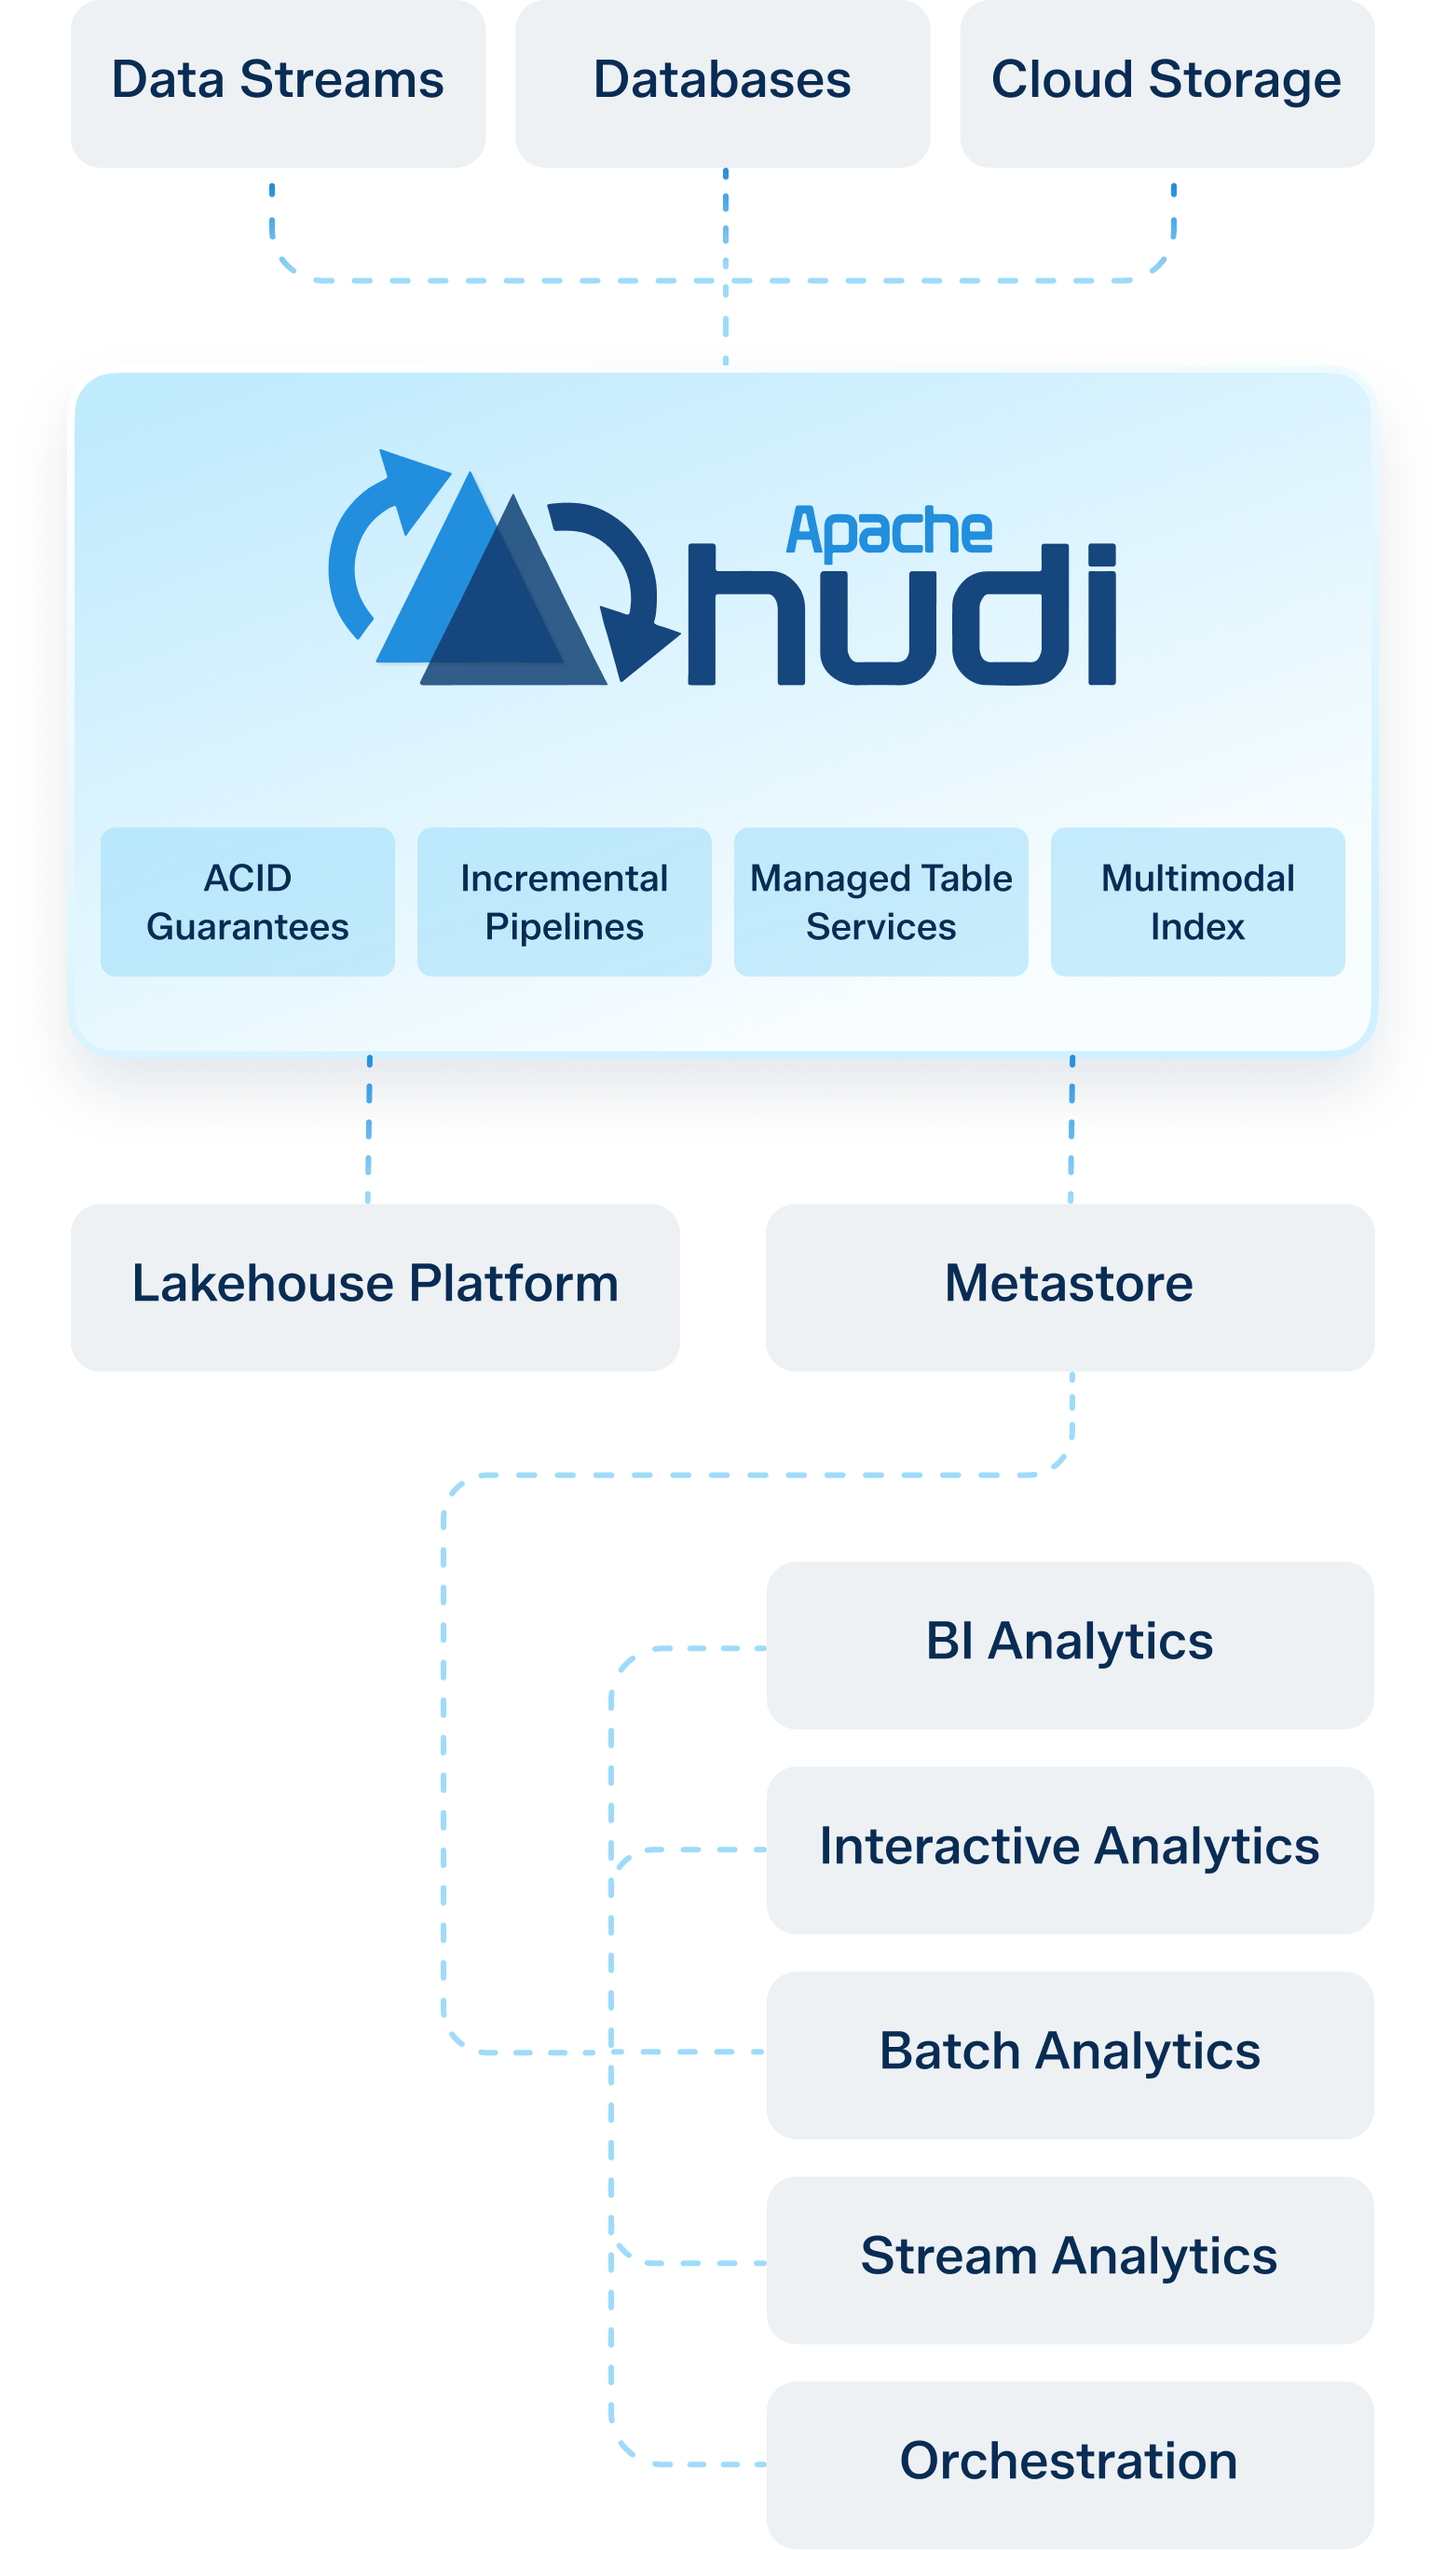
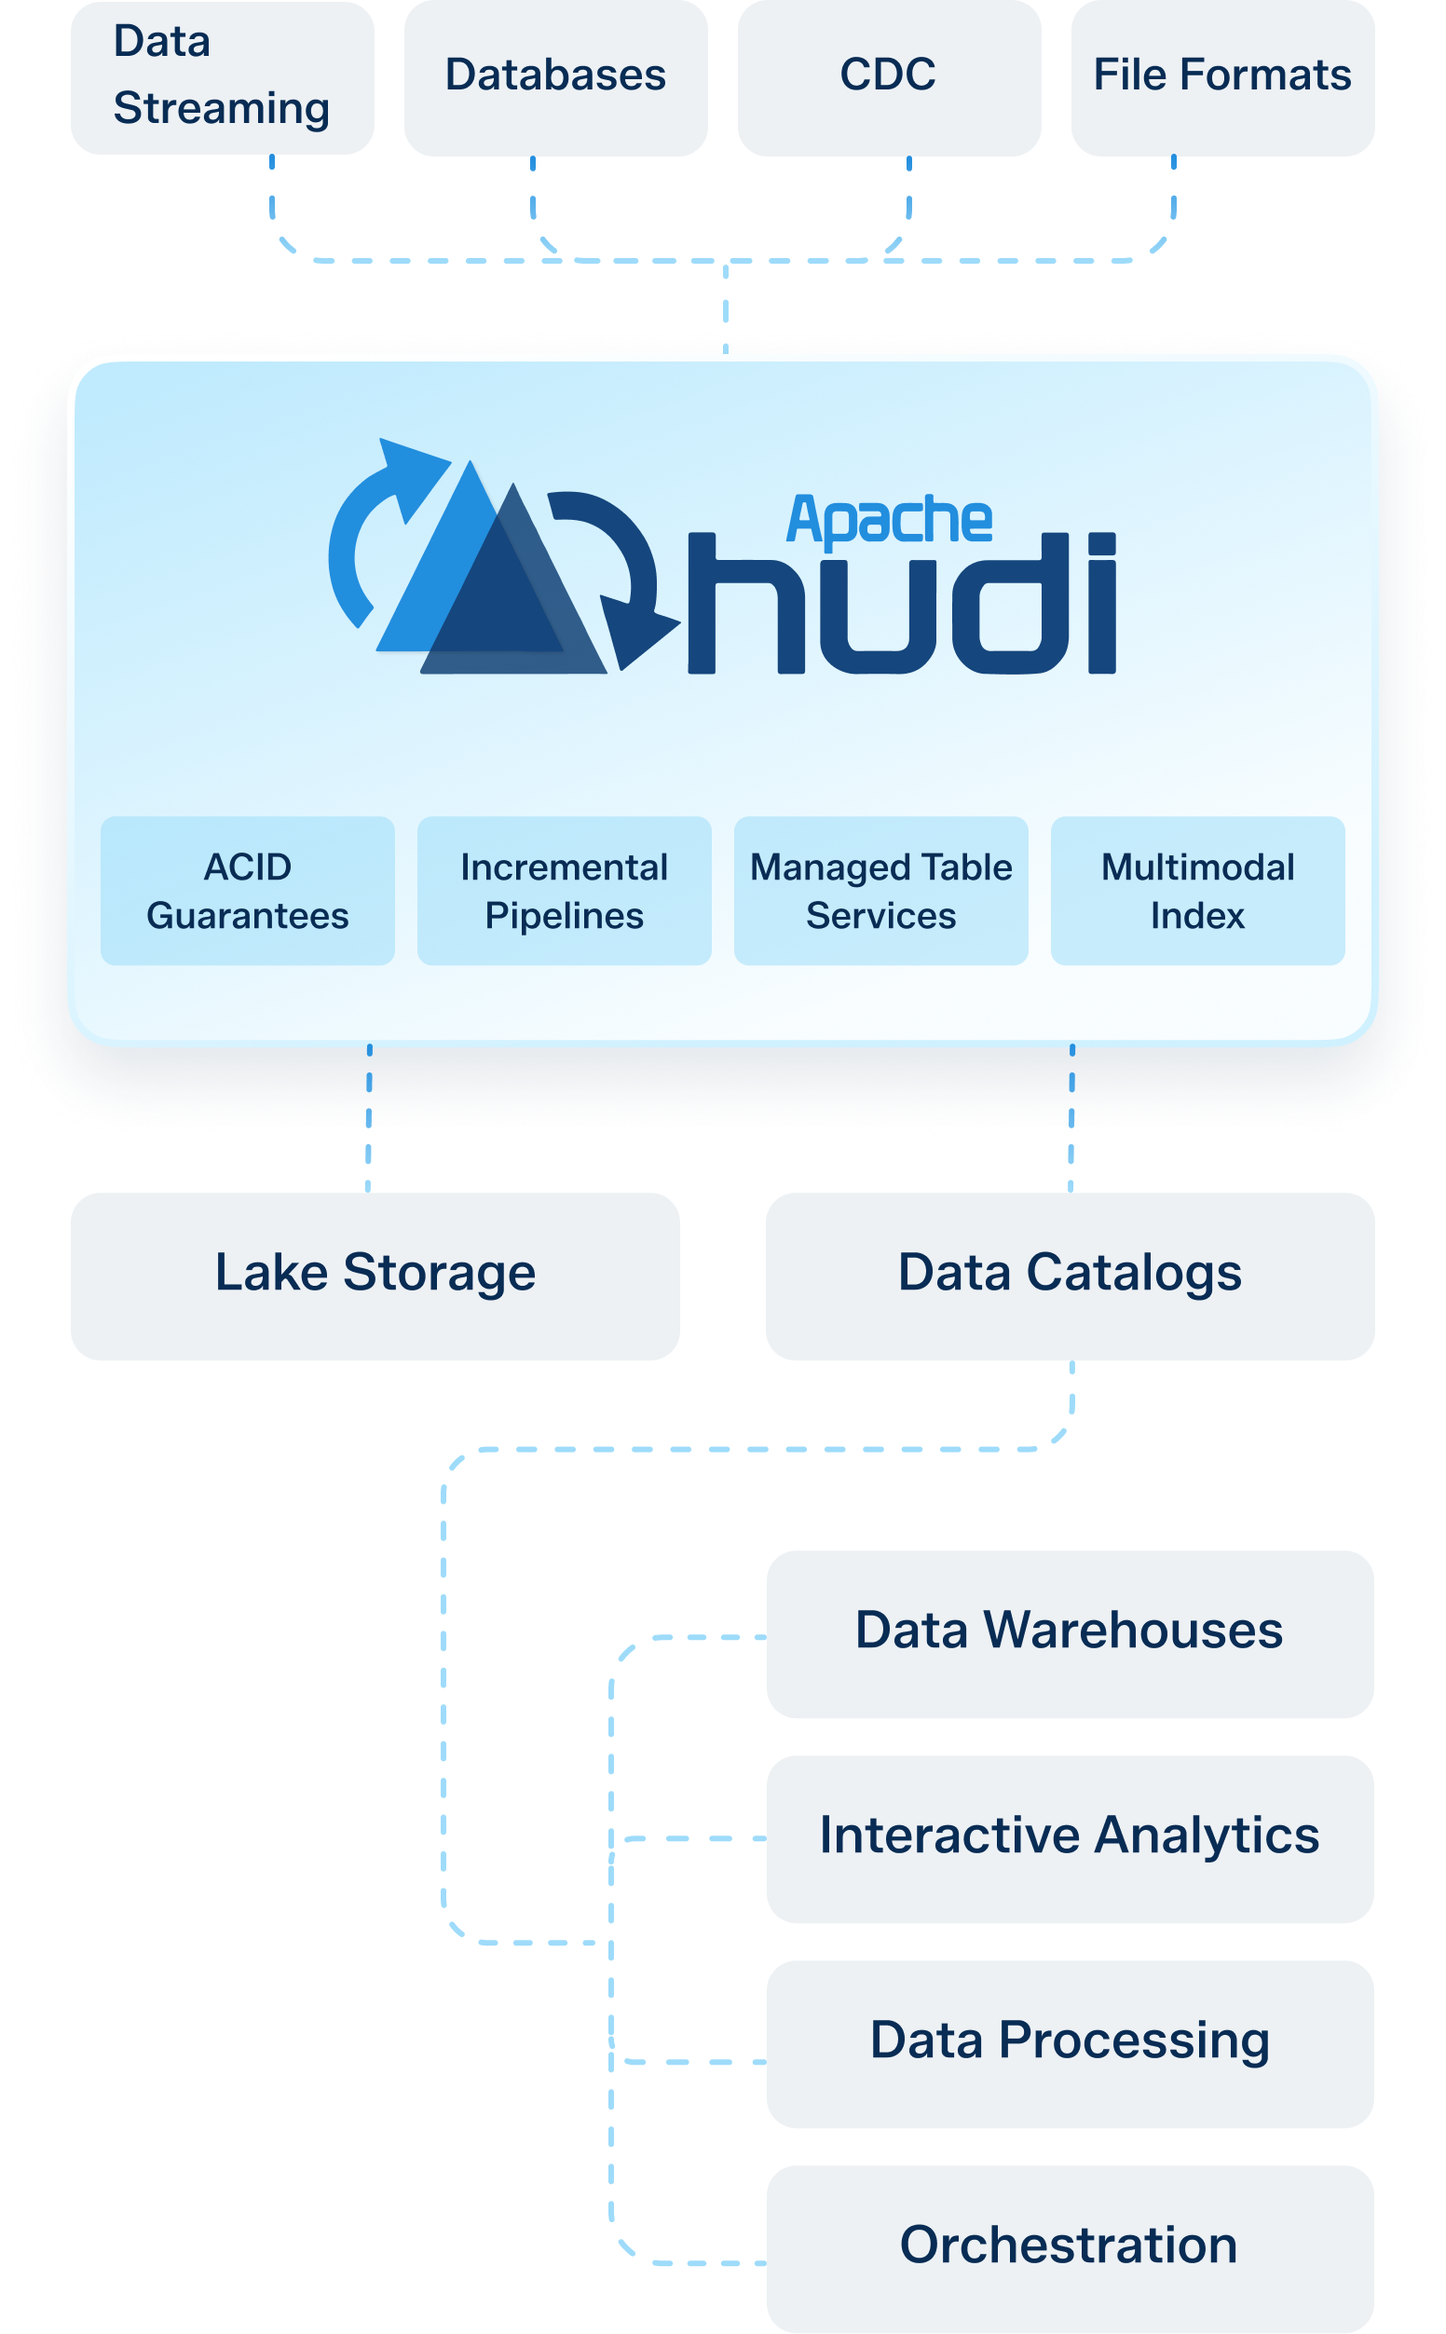
docs(site): update homepage hudi overview diagram (#14348)

diff --git a/website/src/components/Integrations/data.js b/website/src/components/Integrations/data.js
@@ -58,9 +58,9 @@ export const cdcItems = [
 ]
 
 export const fileFormatItems = [
-  {title: "Parquet", icon: ParquetIcon},
-  {title: "ORC", icon: OrcIcon},
-  {title: "Avro", icon: AvroIcon},
+  {title: "Apache Parquet", icon: ParquetIcon},
+  {title: "Apache ORC", icon: OrcIcon},
+  {title: "Apache Avro", icon: AvroIcon},
   {title: "CSV", icon: CsvIcon},
   {title: "JSON", icon: JSONIcon},
 ]

diff --git a/website/releases/download.md b/website/releases/download.md
@@ -69,13 +69,18 @@ toc: true
     * [hudi-cli-bundle_2.13](https://repository.apache.org/content/repositories/releases/org/apache/hudi/hudi-cli-bundle_2.13/1.1.0/hudi-cli-bundle_2.13-1.1.0.jar)
     * [hudi-cli-bundle_2.12](https://repository.apache.org/content/repositories/releases/org/apache/hudi/hudi-cli-bundle_2.12/1.1.0/hudi-cli-bundle_2.12-1.1.0.jar)
 
+  </details>
+
+  <details>
+  <summary><strong>Platform Integrations</strong></summary>
+
   * **AWS**
     * [hudi-aws-bundle](https://repository.apache.org/content/repositories/releases/org/apache/hudi/hudi-aws-bundle/1.1.0/hudi-aws-bundle-1.1.0.jar)
 
   * **Google Cloud**
     * [hudi-gcp-bundle](https://repository.apache.org/content/repositories/releases/org/apache/hudi/hudi-gcp-bundle/1.1.0/hudi-gcp-bundle-1.1.0.jar)
 
-  * **Data Catalog**
+  * **Data Catalogs**
     * [hudi-hive-sync-bundle](https://repository.apache.org/content/repositories/releases/org/apache/hudi/hudi-hive-sync-bundle/1.1.0/hudi-hive-sync-bundle-1.1.0.jar)
     * [hudi-datahub-sync-bundle](https://repository.apache.org/content/repositories/releases/org/apache/hudi/hudi-datahub-sync-bundle/1.1.0/hudi-datahub-sync-bundle-1.1.0.jar)
   

diff --git a/website/src/pages/roadmap.md b/website/src/pages/roadmap.md
@@ -2,6 +2,7 @@
 title: Roadmap
 last_modified_at: 2025-02-19T12:00:00-08:00
 ---
+
 # Roadmap
 
 Hudi community strives to deliver major releases every 3 months, while offering minor releases every 1-2 months!
@@ -10,16 +11,14 @@ down by areas on our [stack](/docs/hudi_stack).
 
 ## Recent Release(s)
 
-[1.0.2](/releases/release-1.0.2) (May 2025)
+[1.1.0](/releases/release-1.1.0) (Nov 2025)
 
 ## Future Releases
 
 | Release | Timeline  |
 |---------|-----------|
-| 1.1.0   | Jun 2025  |
-| 1.2.0   | Aug 2025  |
-| 2.0.0   | Nov 2025  |
-
+| 1.2.0   | Jan 2026  |
+| 2.0.0   | Jun 2026  |
 
 ## Storage Engine
 
